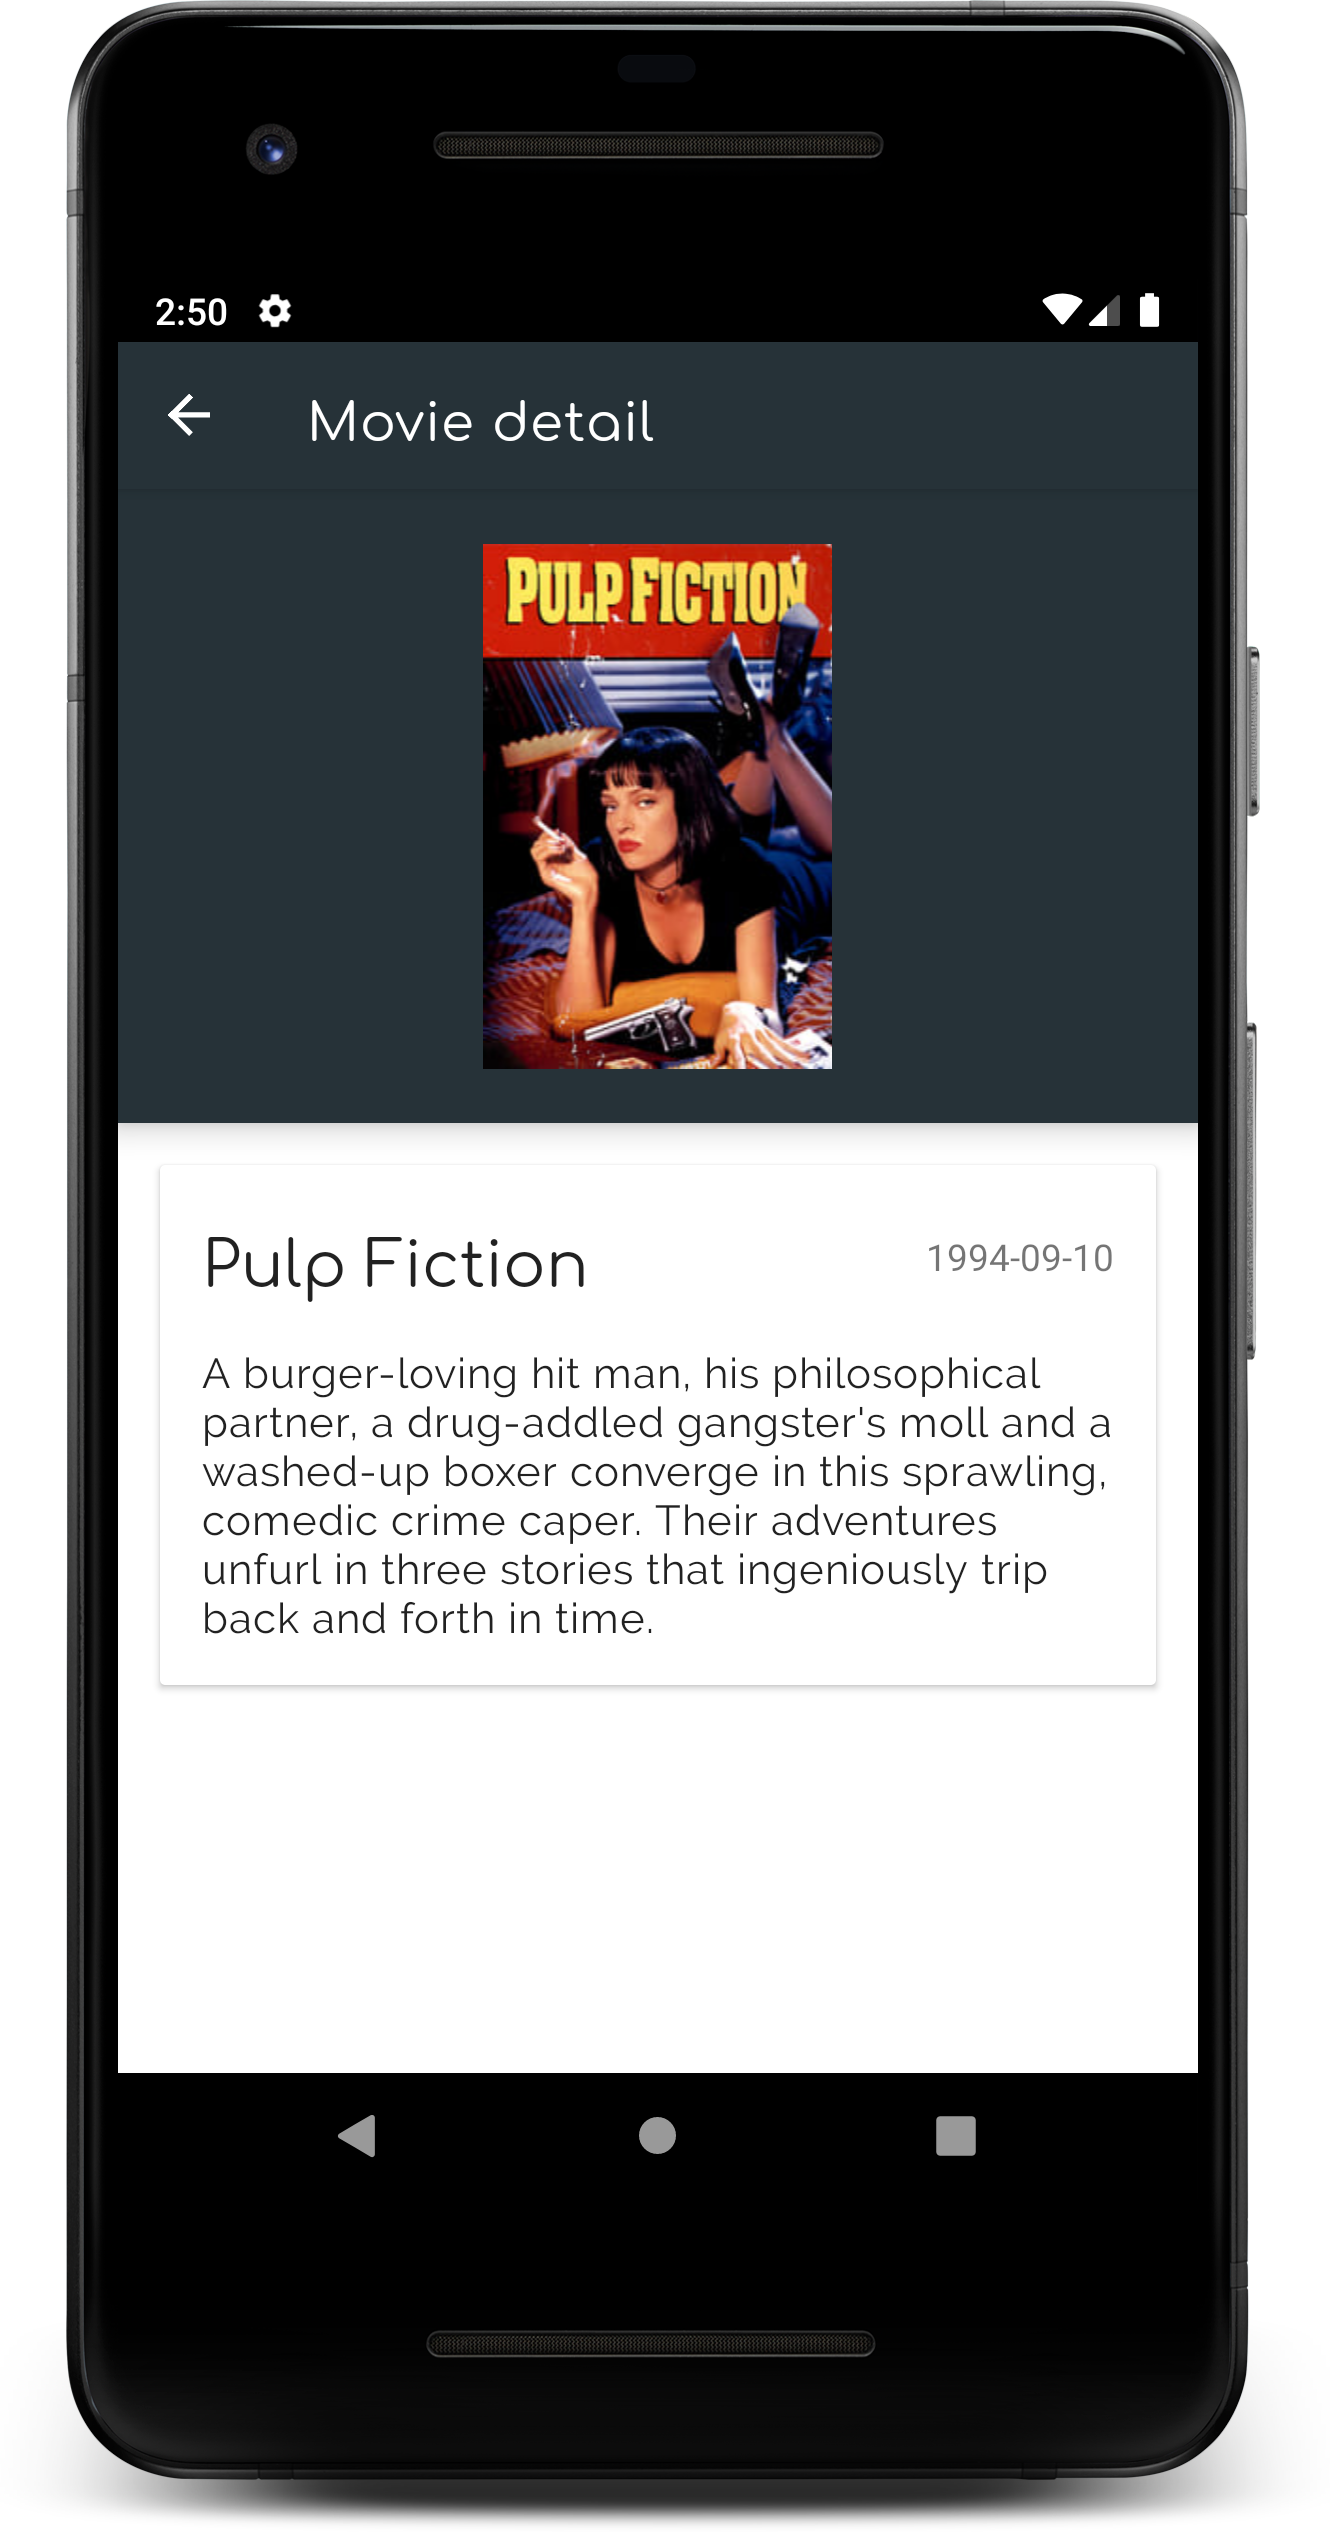
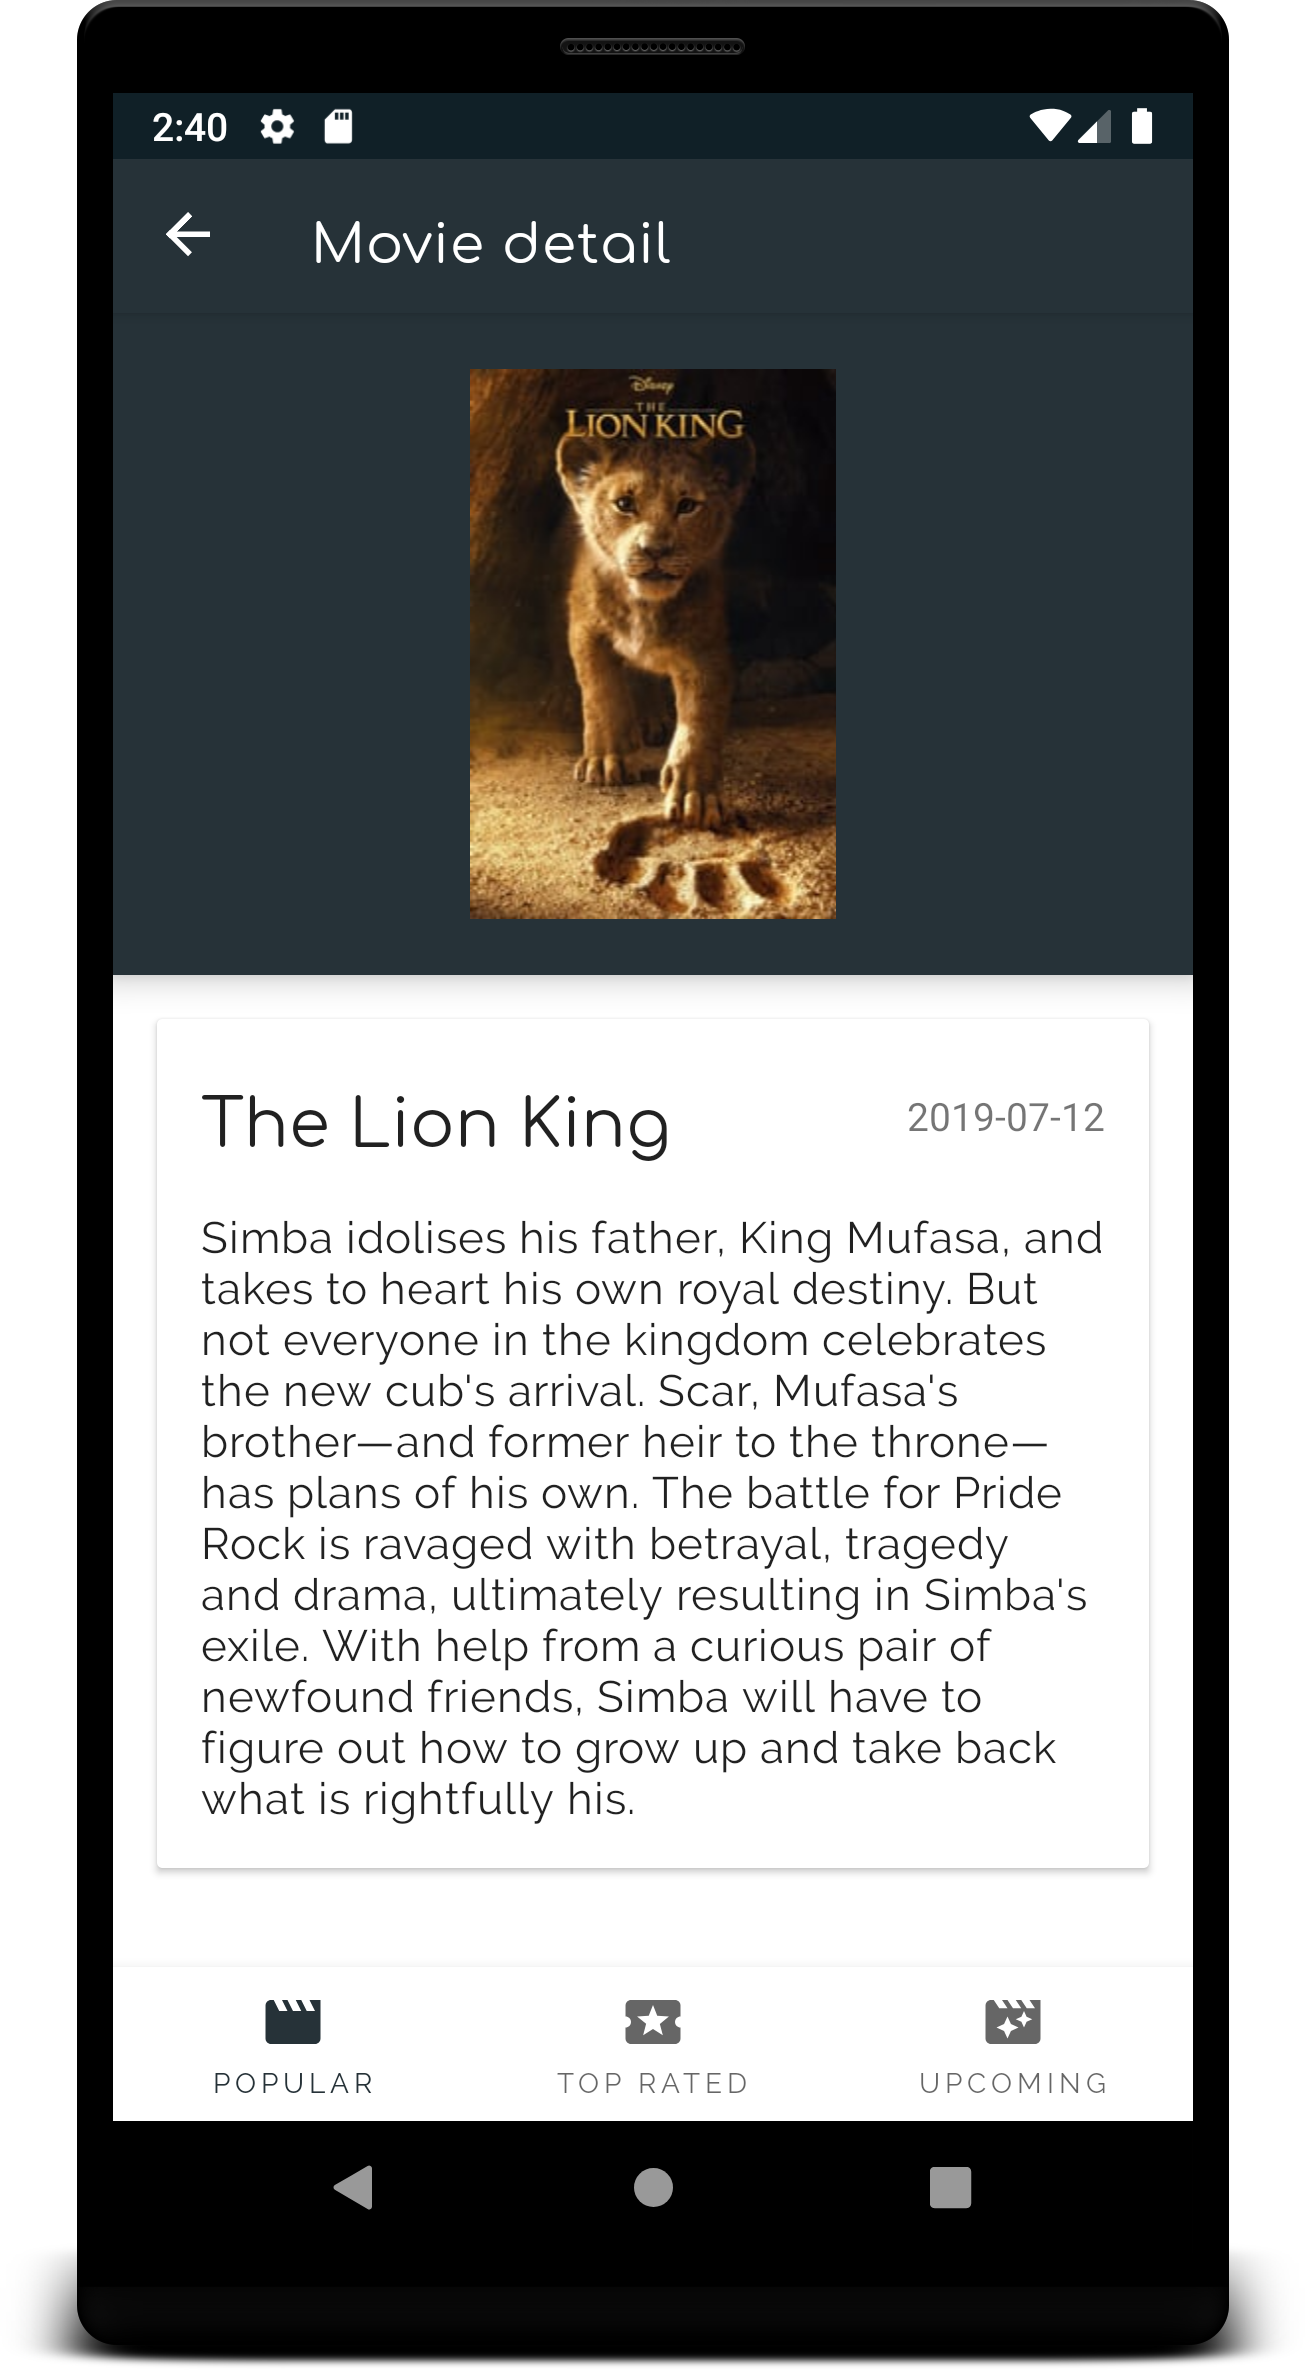
Bottom Navigation view and repository refactor

diff --git a/data/src/main/java/com/juangm/data/repository/MoviesRepository.kt b/data/src/main/java/com/juangm/data/repository/MoviesRepository.kt
@@ -11,31 +11,52 @@ class MoviesRepository(private val moviesRemoteSource: MoviesRemoteSourceContrac
     /**
      * Repository cache
      */
-    private var movies = mutableListOf<Movie>()
-    private var nextPage: Int = 1
+    private var popularMovies = mutableListOf<Movie>()
+    private var popularNextPage: Int = 1
+    private var topRatedMovies = mutableListOf<Movie>()
+    private var topRatedNextPage: Int = 1
+    private var upcomingMovies = mutableListOf<Movie>()
+    private var upcomingNextPage: Int = 1
 
     override suspend fun getPopularMoviesAsync(loadMore: Boolean): List<Movie>? {
-        return getMovies(loadMore) { moviesRemoteSource.getPopularMoviesFromApi(nextPage) }
+        return getMovies(
+            loadMore,
+            popularMovies,
+            { moviesRemoteSource.getPopularMoviesFromApi(popularNextPage) },
+            { popularNextPage = it + 1 }
+        )
     }
 
     override suspend fun getTopRatedMoviesAsync(loadMore: Boolean): List<Movie>? {
-        return getMovies(loadMore) { moviesRemoteSource.getTopRatedMoviesFromApi(nextPage) }
+        return getMovies(
+            loadMore,
+            topRatedMovies,
+            { moviesRemoteSource.getTopRatedMoviesFromApi(topRatedNextPage) },
+            { topRatedNextPage = it + 1 }
+        )
     }
 
     override suspend fun getUpcomingMoviesAsync(loadMore: Boolean): List<Movie>? {
-        return getMovies(loadMore) { moviesRemoteSource.getUpcomingMoviesFromApi(nextPage) }
+        return getMovies(
+            loadMore,
+            upcomingMovies,
+            { moviesRemoteSource.getUpcomingMoviesFromApi(upcomingNextPage) },
+            { upcomingNextPage = it + 1 }
+        )
     }
 
     private suspend fun getMovies(
         loadMore: Boolean,
-        remoteSourceCall: suspend (nextPage: Int) -> MoviesResponse?
+        movies: MutableList<Movie>,
+        remoteSourceCall: suspend () -> MoviesResponse?,
+        onPageRetrieved: (actualPage: Int) -> Unit
     ): List<Movie> {
         if(loadMore || movies.isEmpty()) {
-            val moviesResponse =remoteSourceCall(nextPage)
+            val moviesResponse = remoteSourceCall()
             moviesResponse?.let { response ->
                 response.results?.let { movies.addAll(it.toMutableList()) }
-                nextPage = response.page + 1
-                Timber.i("Page ${response.page} retrieved. Next page: $nextPage. Movies size: ${movies.size}")
+                Timber.i("Page ${response.page} retrieved. Movies size: ${movies.size}")
+                onPageRetrieved(response.page)
             }
         }
         return movies.toList()

diff --git a/app/src/main/java/com/juangm/movies_mvi/ui/movies/MoviesActivity.kt b/app/src/main/java/com/juangm/movies_mvi/ui/movies/MoviesActivity.kt
@@ -7,7 +7,9 @@ import androidx.navigation.fragment.NavHostFragment
 import androidx.navigation.ui.AppBarConfiguration
 import androidx.navigation.ui.navigateUp
 import androidx.navigation.ui.setupActionBarWithNavController
+import androidx.navigation.ui.setupWithNavController
 import com.juangm.movies_mvi.R
+import kotlinx.android.synthetic.main.activity_main.*
 
 class MoviesActivity : AppCompatActivity() {
 
@@ -17,6 +19,7 @@ class MoviesActivity : AppCompatActivity() {
         super.onCreate(savedInstanceState)
         setContentView(R.layout.activity_main)
         setupNavigation()
+        setupBottomNavigation()
     }
 
     private fun setupNavigation() {
@@ -24,6 +27,10 @@ class MoviesActivity : AppCompatActivity() {
         val navController = navHostFragment.navController
         appBarConfiguration = AppBarConfiguration(navController.graph)
         setupActionBarWithNavController(navController, appBarConfiguration)
+    }
+
+    private fun setupBottomNavigation() {
+        movies_bottom_navigation.setupWithNavController(findNavController(R.id.movies_nav_host_fragment))
     }
 
     override fun onSupportNavigateUp(): Boolean {
